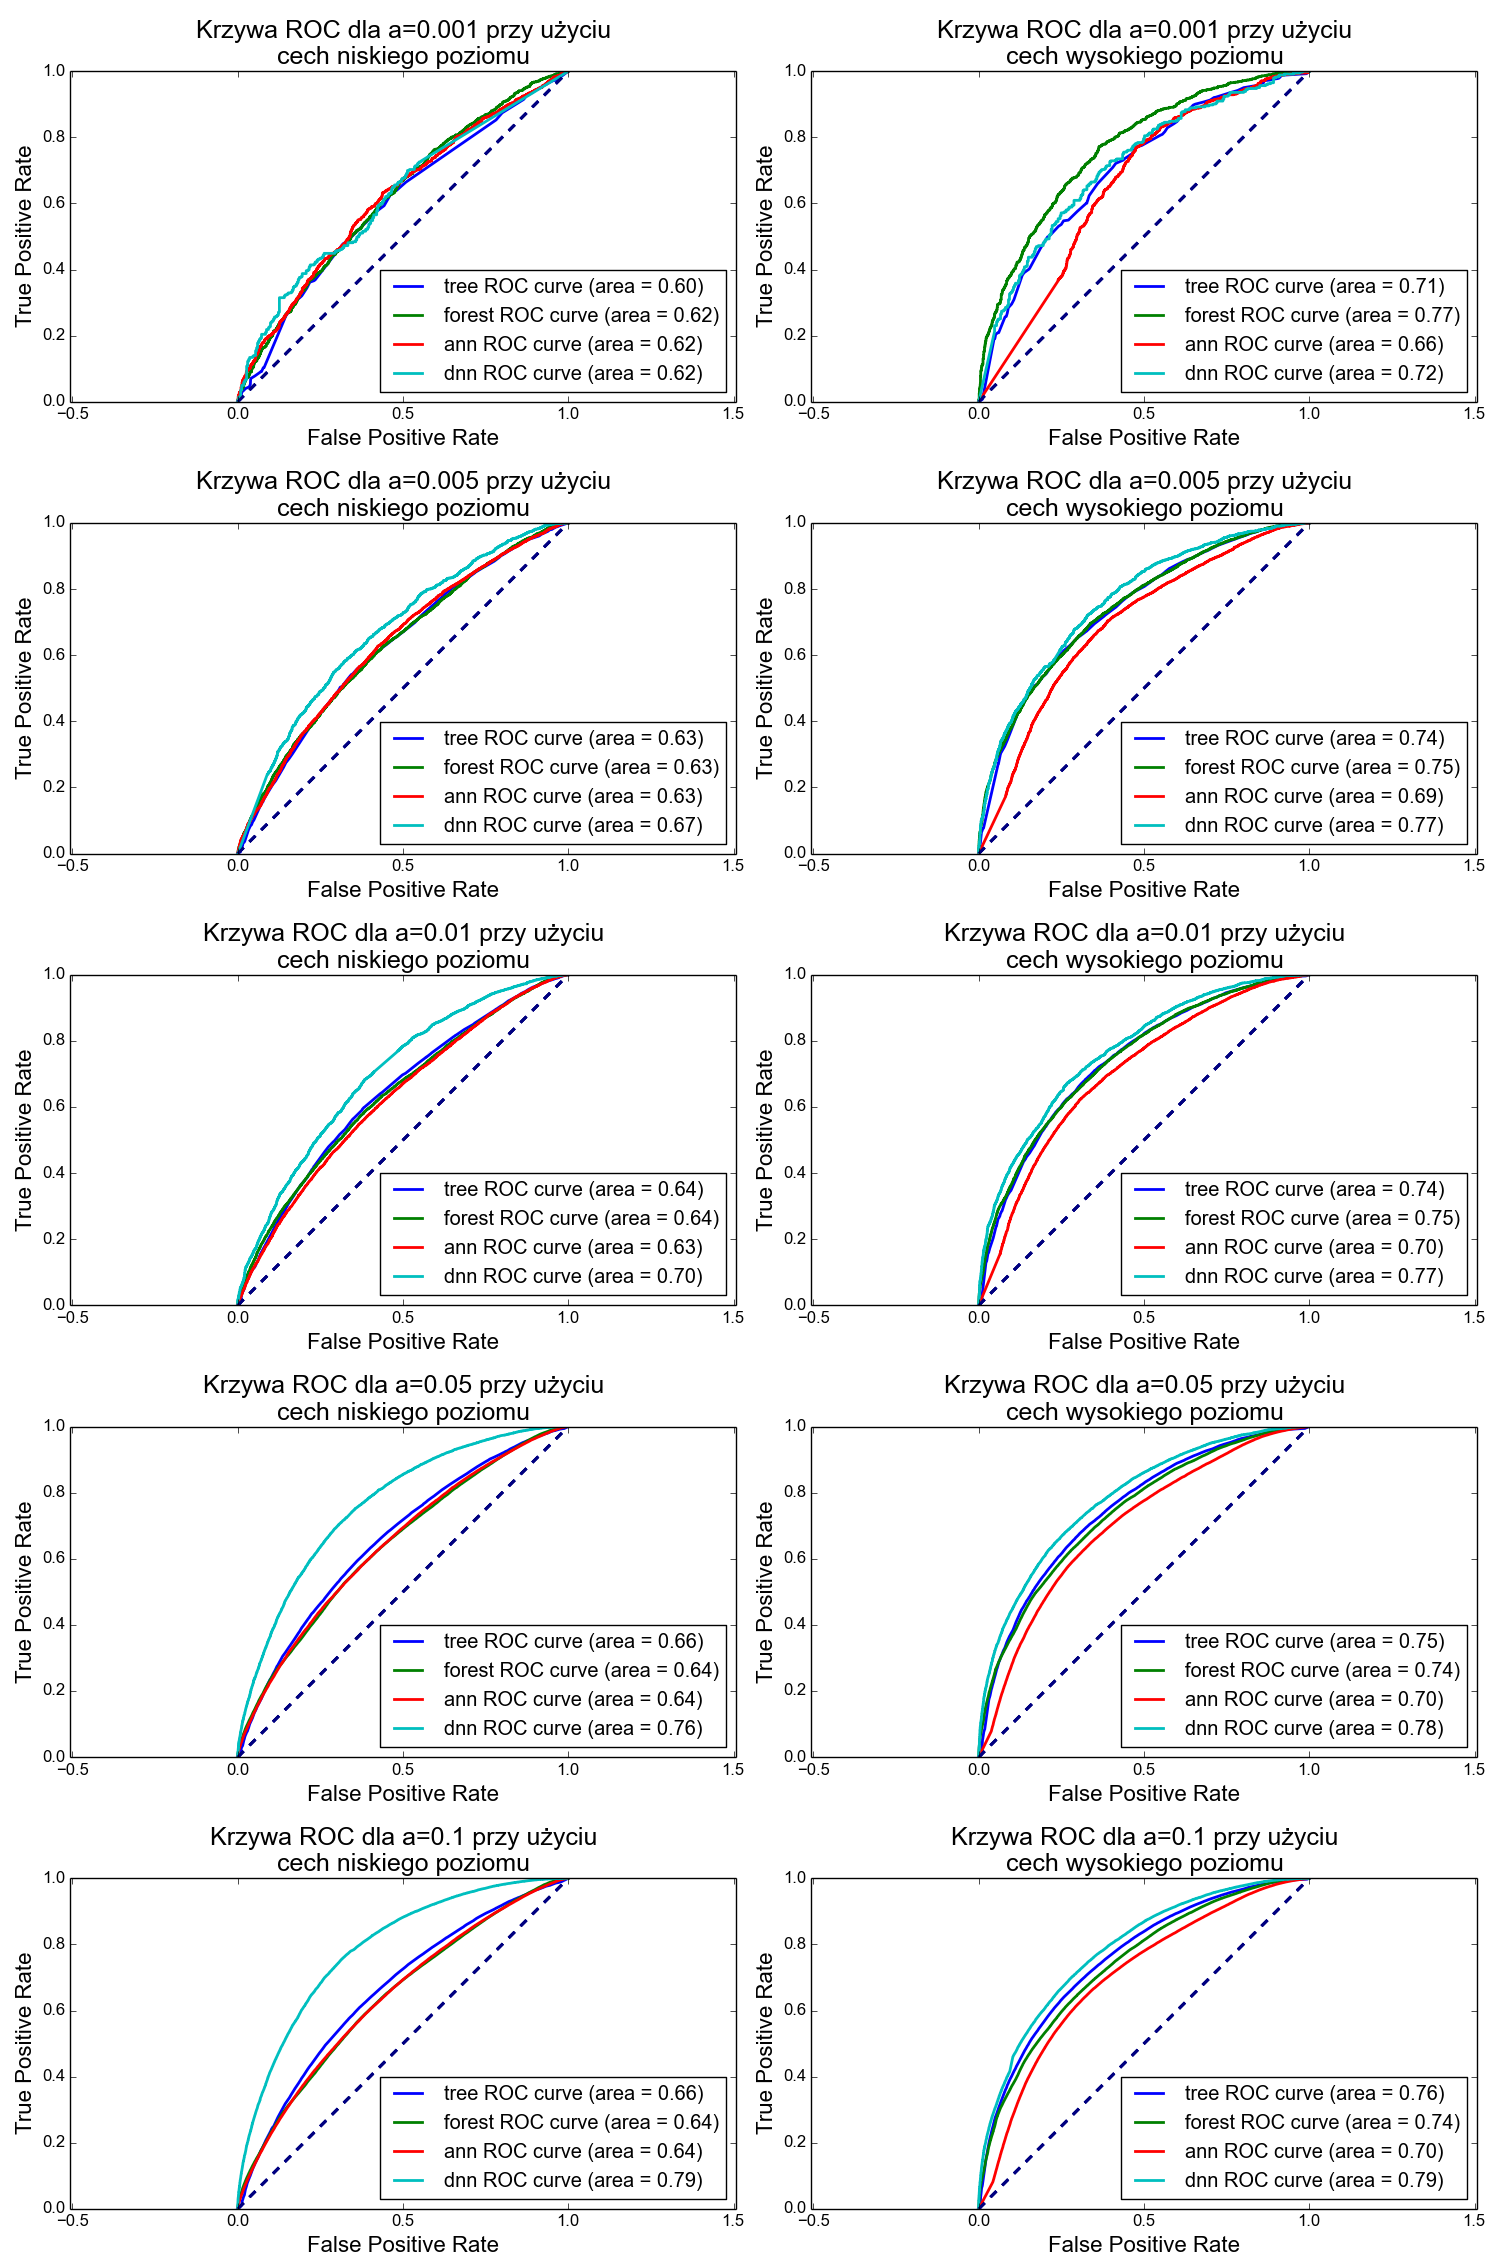
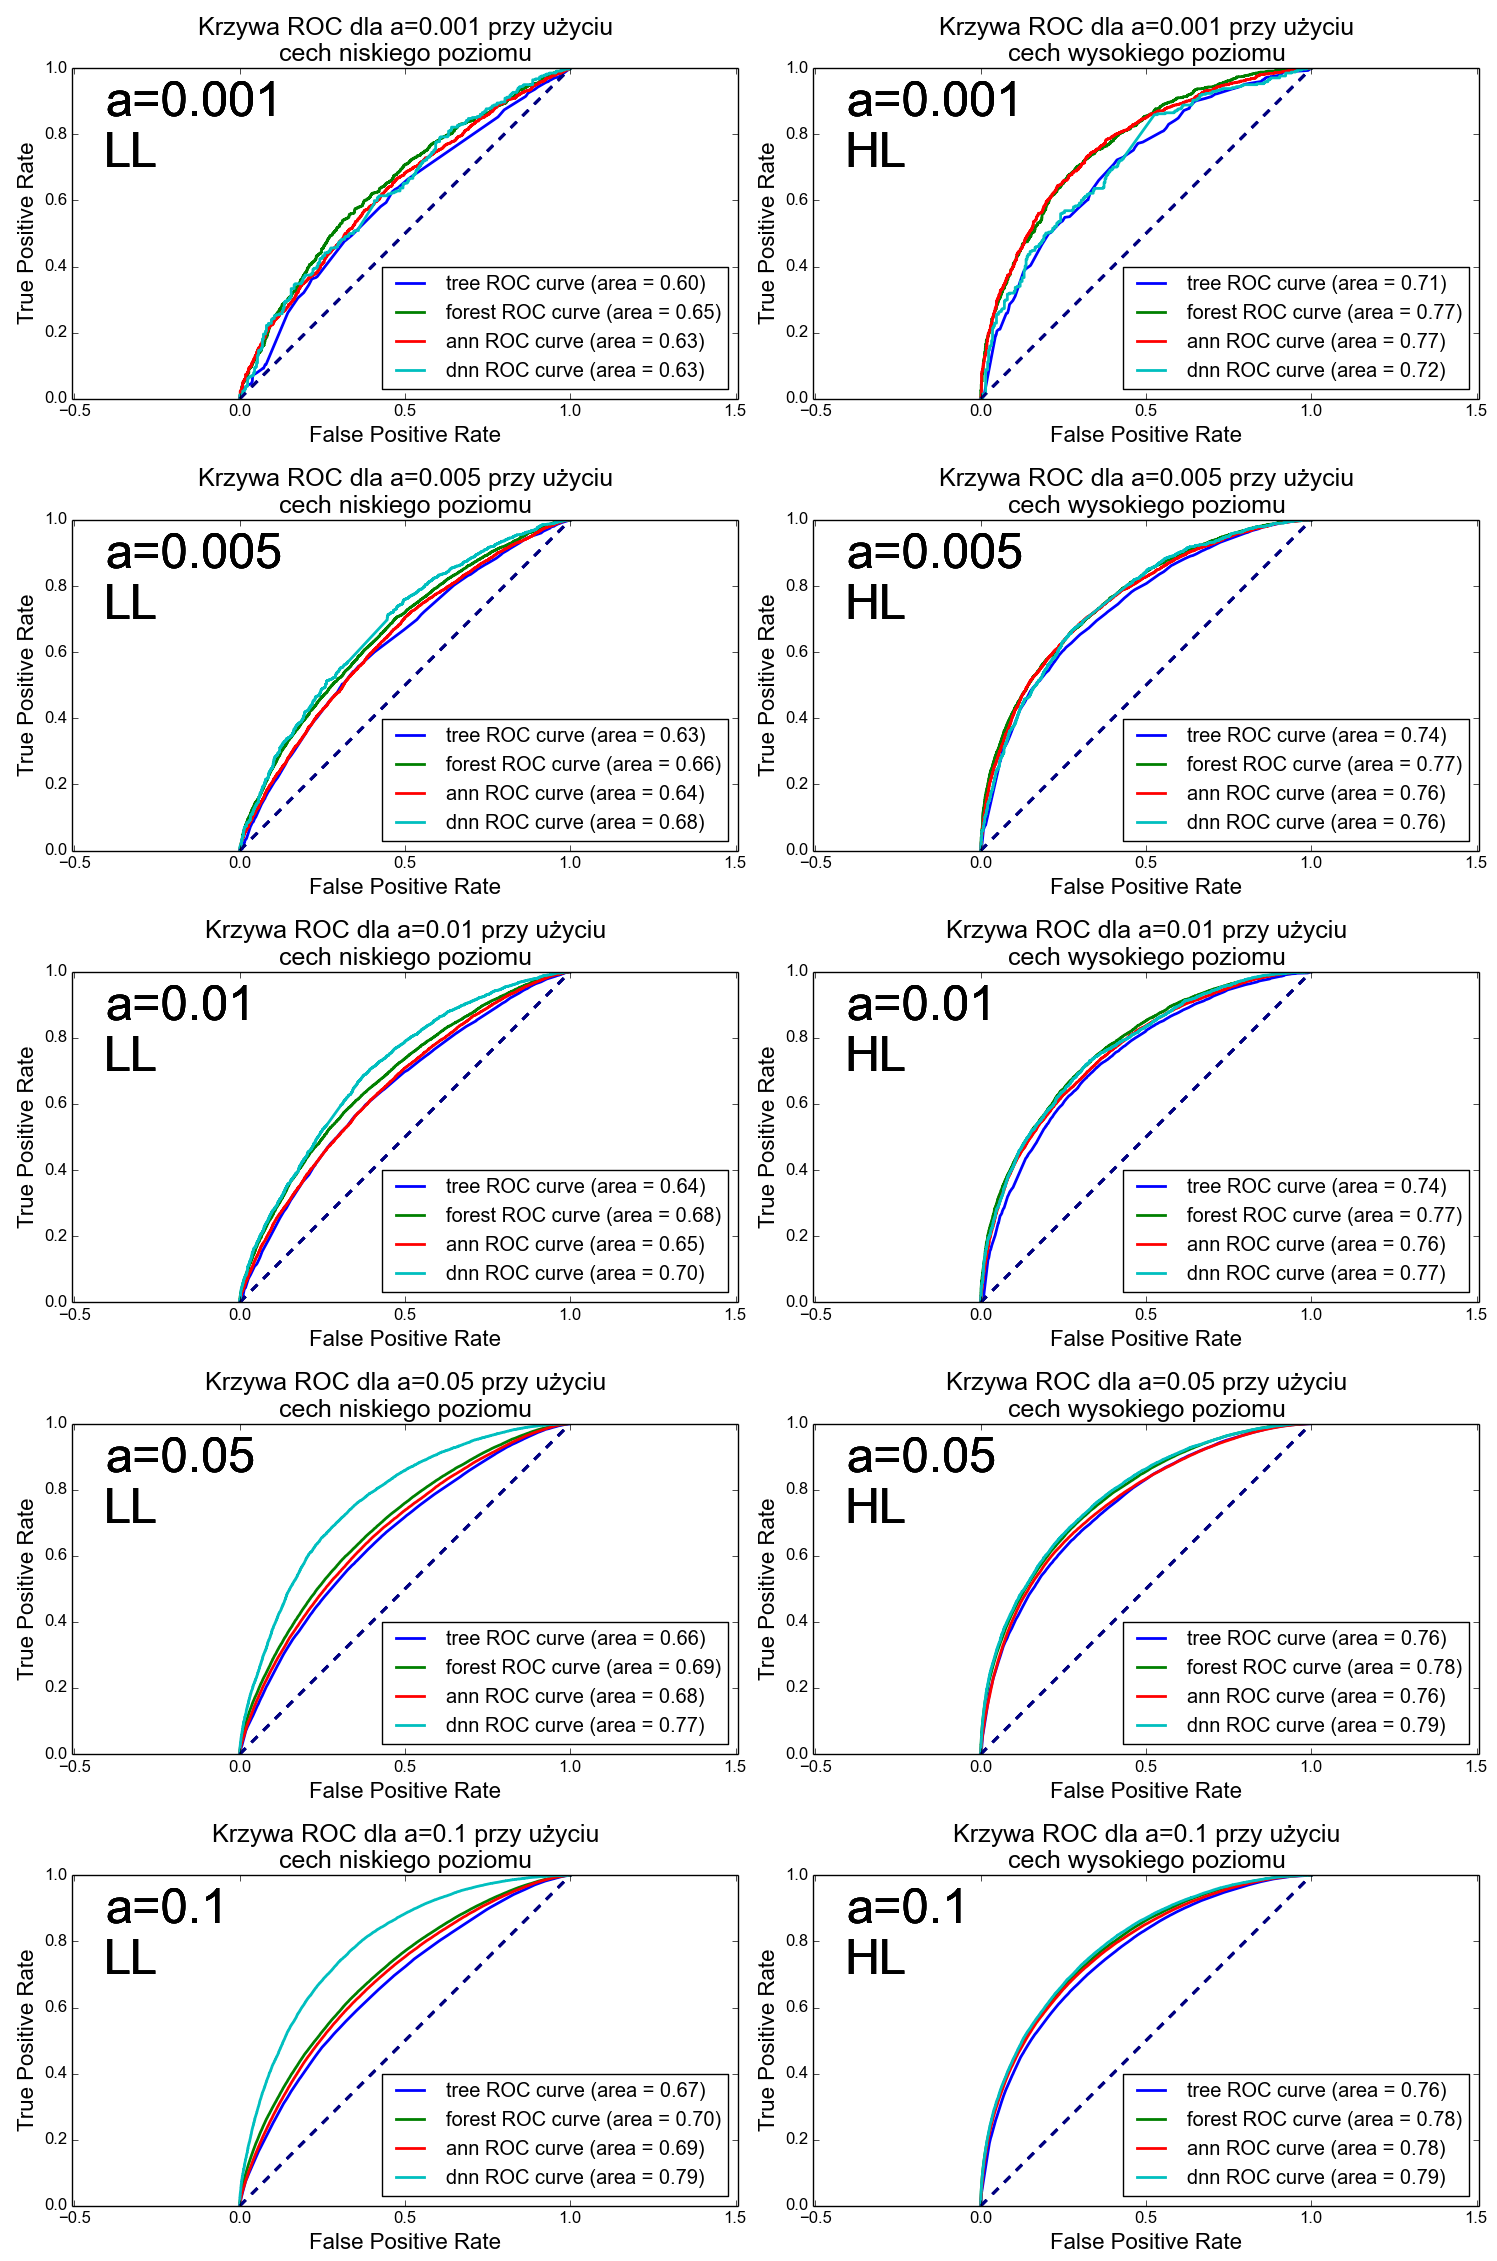
update higgs with fixed bug

diff --git a/results.tex b/results.tex
@@ -287,32 +287,32 @@ Na~rysunkach \ref{higgsall1} oraz~\ref{higgsall2} przedstawione została krzywa 
 
  &       & tree & forest & ann & dnn \\ \hline
 
-\multirow{2}{*}{0,001} & niskiego poziomu   & $ 0,6 $ & $ 0,62 $ & $ 0,62 $ &$ 0,62 $ \\ \cline{2-6} 
-                       & wysokiego poziomu & $ 0,71 $ & $ 0,77 $ & $ 0,66 $ &$ 0,72 $ \\ \hline 
+\multirow{2}{*}{0,001} & niskiego poziomu   & $ 0.6 $ & $ 0.65 $ & $ 0.63 $ &$ 0.63 $ \\ \cline{2-6} 
+                       & wysokiego poziomu & $ 0.71 $ & $ 0.77 $ & $ 0.77 $ &$ 0.72 $ \\ \hline 
                        
-\multirow{2}{*}{0,005} & niskiego poziomu  & $ 0,63 $ & $ 0,63 $ & $ 0,63 $ &$ 0,67 $ \\ \cline{2-6} 
-                       & wysokiego poziomu & $ 0,74 $ & $ 0,75 $ & $ 0,69 $ &$ 0,77 $ \\ \hline
+\multirow{2}{*}{0,005} & niskiego poziomu & $ 0.63 $ & $ 0.66 $ & $ 0.64 $ &$ 0.68 $ \\ \cline{2-6} 
+                       & wysokiego poziomu & $ 0.74 $ & $ 0.77 $ & $ 0.76 $ &$ 0.76 $ \\ \hline
                        
-\multirow{2}{*}{0,01}  & niskiego poziomu  & $ 0,64 $ & $ 0,64 $ & $ 0,63 $ &$ 0,7 $ \\ \cline{2-6} 
-                       & wysokiego poziomu & $ 0,74 $ & $ 0,75 $ & $ 0,7 $ &$ 0,77 $ \\ \hline
+\multirow{2}{*}{0,01}  & niskiego poziomu  & $ 0.64 $ & $ 0.68 $ & $ 0.65 $ &$ 0.7 $ \\ \cline{2-6} 
+                       & wysokiego poziomu & $ 0.74 $ & $ 0.77 $ & $ 0.76 $ &$ 0.77 $ \\ \hline
                        
-\multirow{2}{*}{0,05}  & niskiego poziomu  & $ 0,66 $ & $ 0,64 $ & $ 0,64 $ &$ 0,76 $ \\ \cline{2-6} 
-                       & wysokiego poziomu &  $ 0,75 $ & $ 0,74 $ & $ 0,7 $ &$ 0,78 $ \\ \hline
+\multirow{2}{*}{0,05}  & niskiego poziomu  & $ 0.66 $ & $ 0.69 $ & $ 0.68 $ &$ 0.77 $  \\ \cline{2-6} 
+                       & wysokiego poziomu & $ 0.76 $ & $ 0.78 $ & $ 0.76 $ &$ 0.79 $ \\ \hline
                        
-\multirow{2}{*}{0,1}   & niskiego poziomu  &  $ 0,66 $ & $ 0,64 $ & $ 0,64 $ &$ 0,79 $ \\ \cline{2-6} 
-                       & wysokiego poziomu &  $ 0,76 $ & $ 0,74 $ & $ 0,7 $ &$ 0,79 $ \\ \hline
+\multirow{2}{*}{0,1}   & niskiego poziomu  & $ 0.67 $ & $ 0.7 $ & $ 0.69 $ &$ 0.79 $ \\ \cline{2-6} 
+                       & wysokiego poziomu & $ 0.76 $ & $ 0.78 $ & $ 0.78 $ &$ 0.79 $ \\ \hline
                        
-\multirow{2}{*}{0,2}   & niskiego poziomu  &  $ 0,67 $ & $ 0,64 $ & $ 0,64 $ &$ 0,81 $ \\ \cline{2-6} 
-                       & wysokiego poziomu &  $ 0,77 $ & $ 0,74 $ & $ 0,7 $ &$ 0,79 $ \\ \hline
+\multirow{2}{*}{0,2}   & niskiego poziomu  & $ 0.66 $ & $ 0.7 $ & $ 0.69 $ &$ 0.81 $ \\ \cline{2-6} 
+                       & wysokiego poziomu & $ 0.76 $ & $ 0.79 $ & $ 0.78 $ &$ 0.79 $ \\ \hline
                        
-\multirow{2}{*}{0,3}   & niskiego poziomu  &  $ 0,67 $ & $ 0,64 $ & $ 0,64 $ &$ 0,82 $ \\ \cline{2-6} 
-                       & wysokiego poziomu &  $ 0,77 $ & $ 0,74 $ & $ 0,7 $ &$ 0,79 $ \\ \hline
+\multirow{2}{*}{0,3}   & niskiego poziomu  & $ 0.67 $ & $ 0.7 $ & $ 0.69 $ &$ 0.82 $ \\ \cline{2-6} 
+                       & wysokiego poziomu & $ 0.76 $ & $ 0.79 $ & $ 0.78 $ &$ 0.79 $ \\ \hline
                        
-\multirow{2}{*}{0,4}   & niskiego poziomu  & $ 0,67 $ & $ 0,64 $ & $ 0,65 $ &$ 0,83 $ \\ \cline{2-6} 
-                       & wysokiego poziomu &  $ 0,77 $ & $ 0,74 $ & $ 0,7 $ &$ 0,79 $ \\ \hline
+\multirow{2}{*}{0,4}   & niskiego poziomu  & $ 0.67 $ & $ 0.71 $ & $ 0.69 $ &$ 0.83 $ \\ \cline{2-6} 
+                       & wysokiego poziomu & $ 0.76 $ & $ 0.79 $ & $ 0.78 $ &$ 0.79 $ \\ \hline
                        
-\multirow{2}{*}{0,5}   & niskiego poziomu  &  $ 0,68 $ & $ 0,64 $ & $ 0,64 $ &$ 0,83 $ \\ \cline{2-6} 
-                       & wysokiego poziomu &  $ 0,77 $ & $ 0,74 $ & $ 0,69 $ &$ 0,79 $ \\ \hline
+\multirow{2}{*}{0,5}   & niskiego poziomu  & $ 0.67 $ & $ 0.71 $ & $ 0.69 $ &$ 0.83 $ \\ \cline{2-6} 
+                       & wysokiego poziomu & $ 0.76 $ & $ 0.78 $ & $ 0.78 $ &$ 0.79 $ \\ \hline
 \end{tabular}
 
 \caption{Zestawienie AUC ROC dla testowanych metod w zależności od rodzaju wykorzystanych cech oraz ilości wykorzystanych danych}
